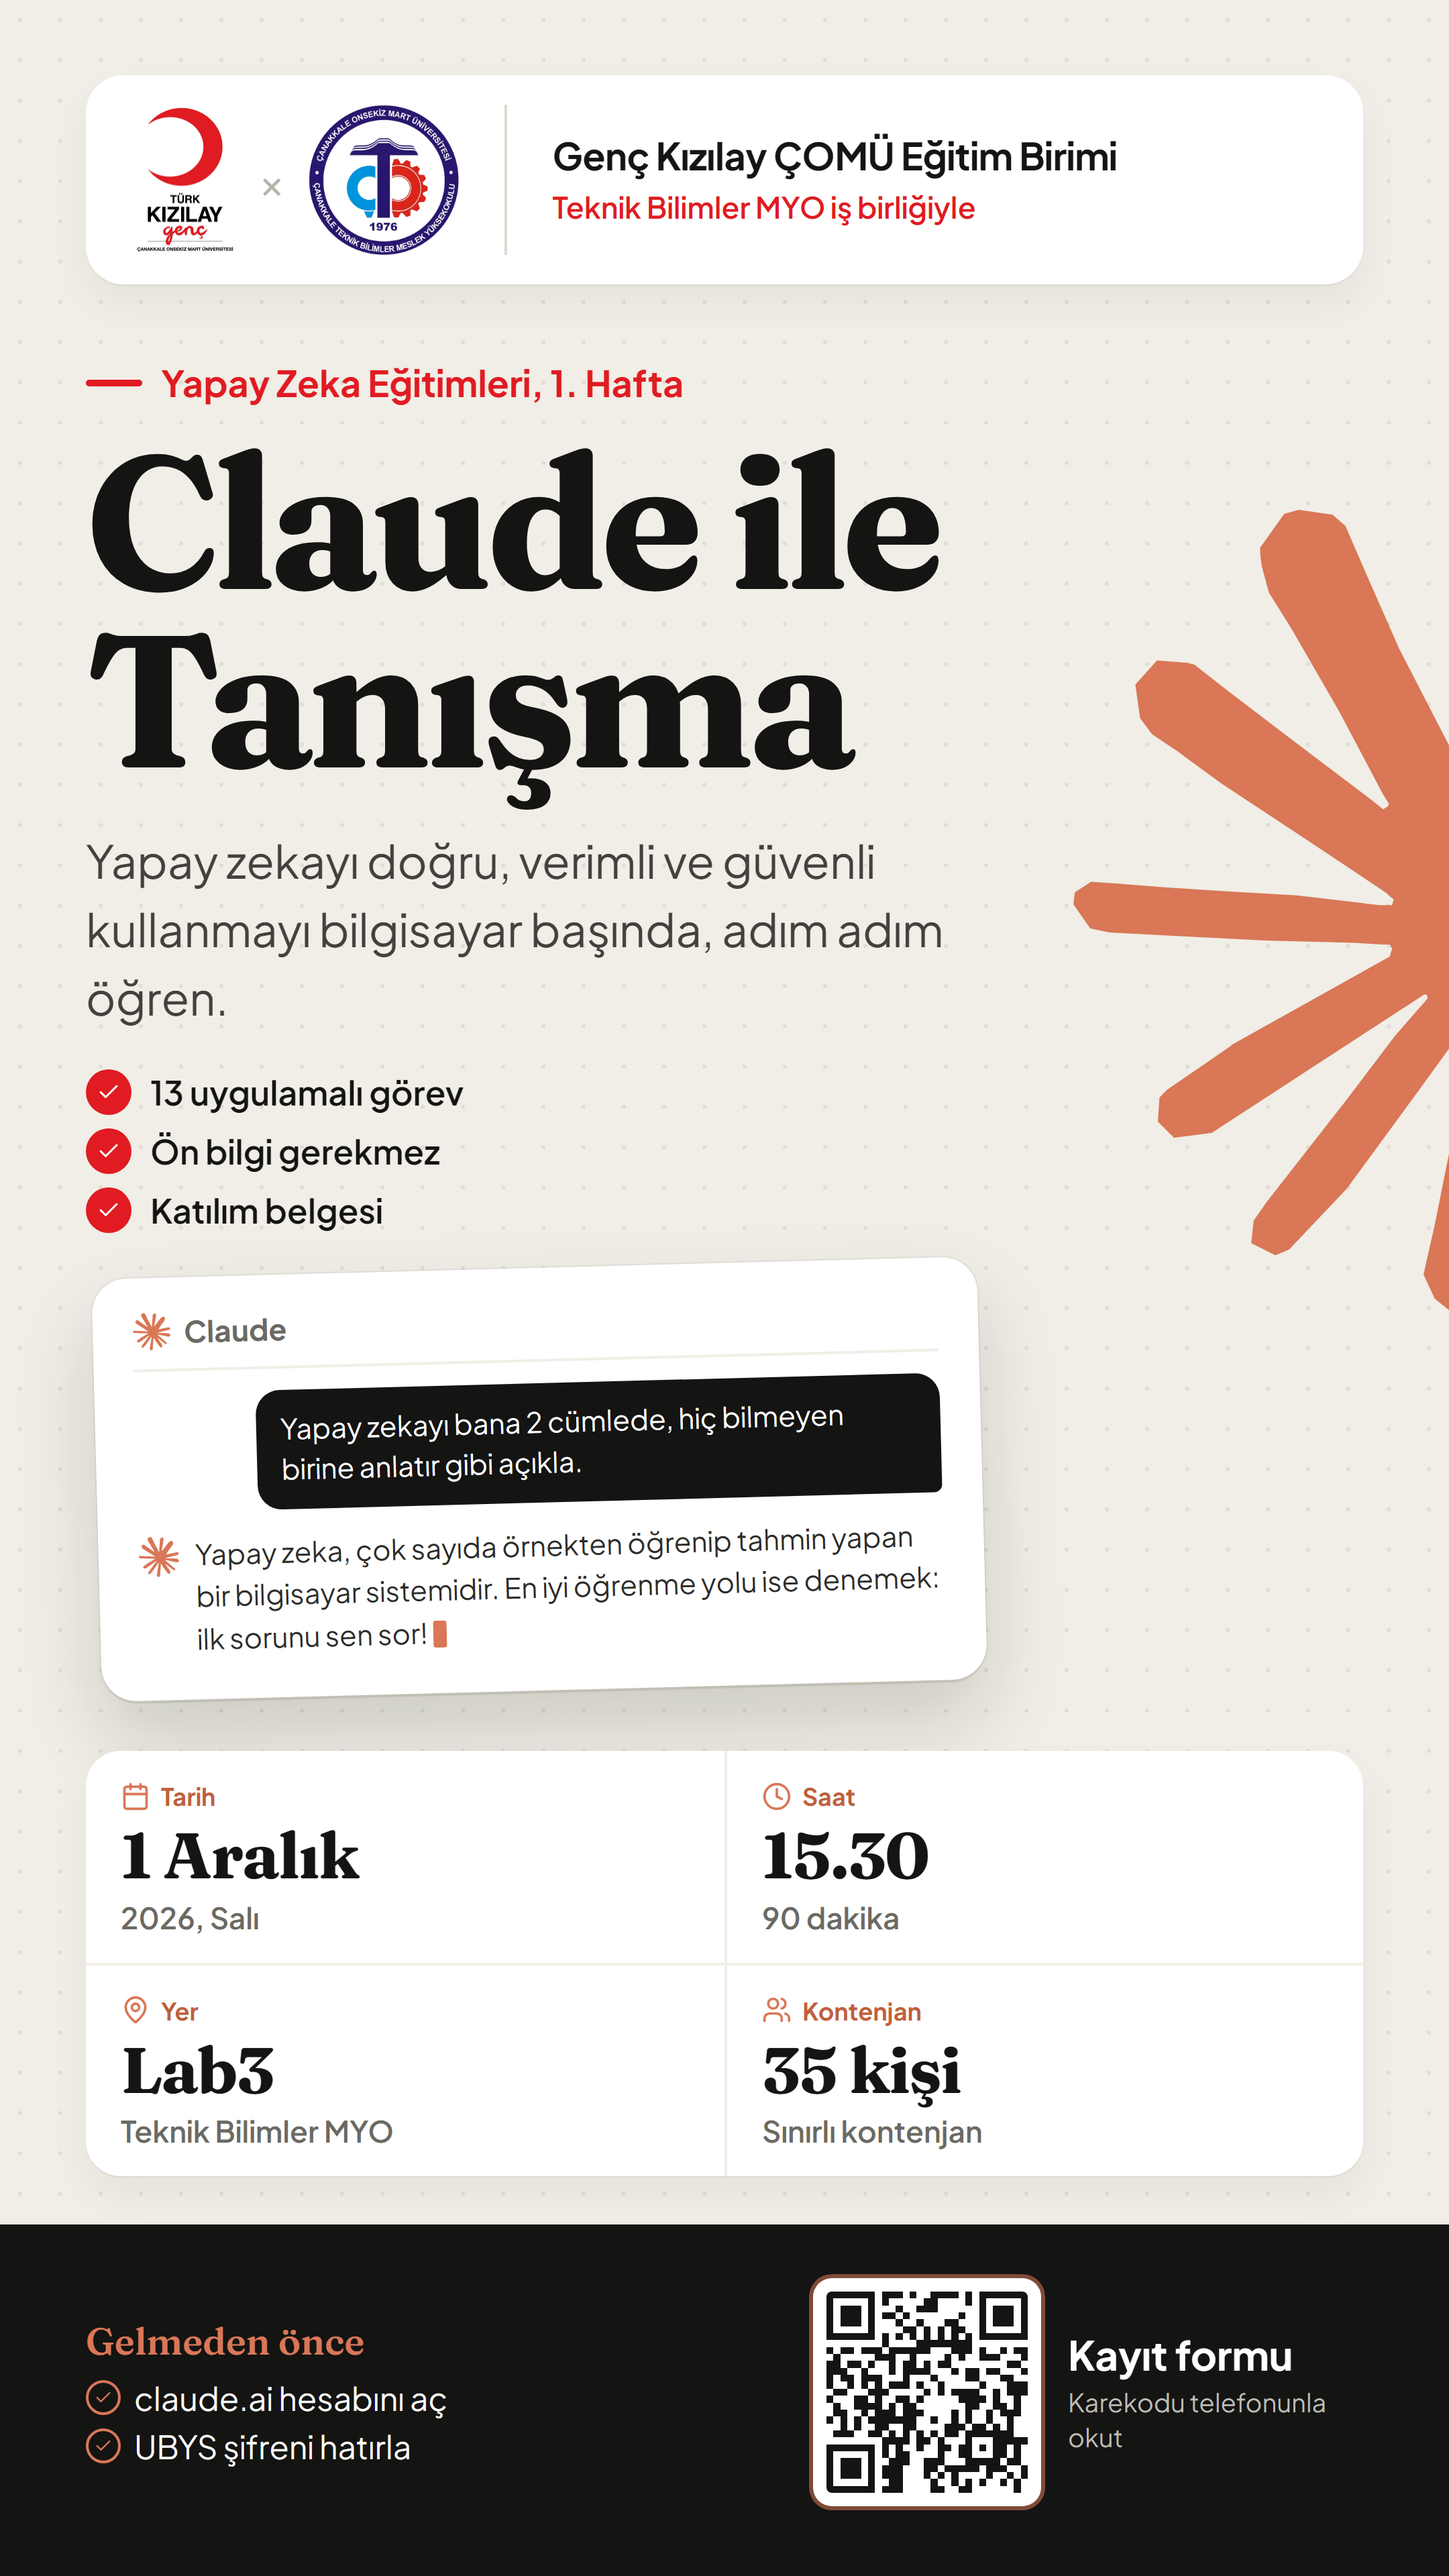
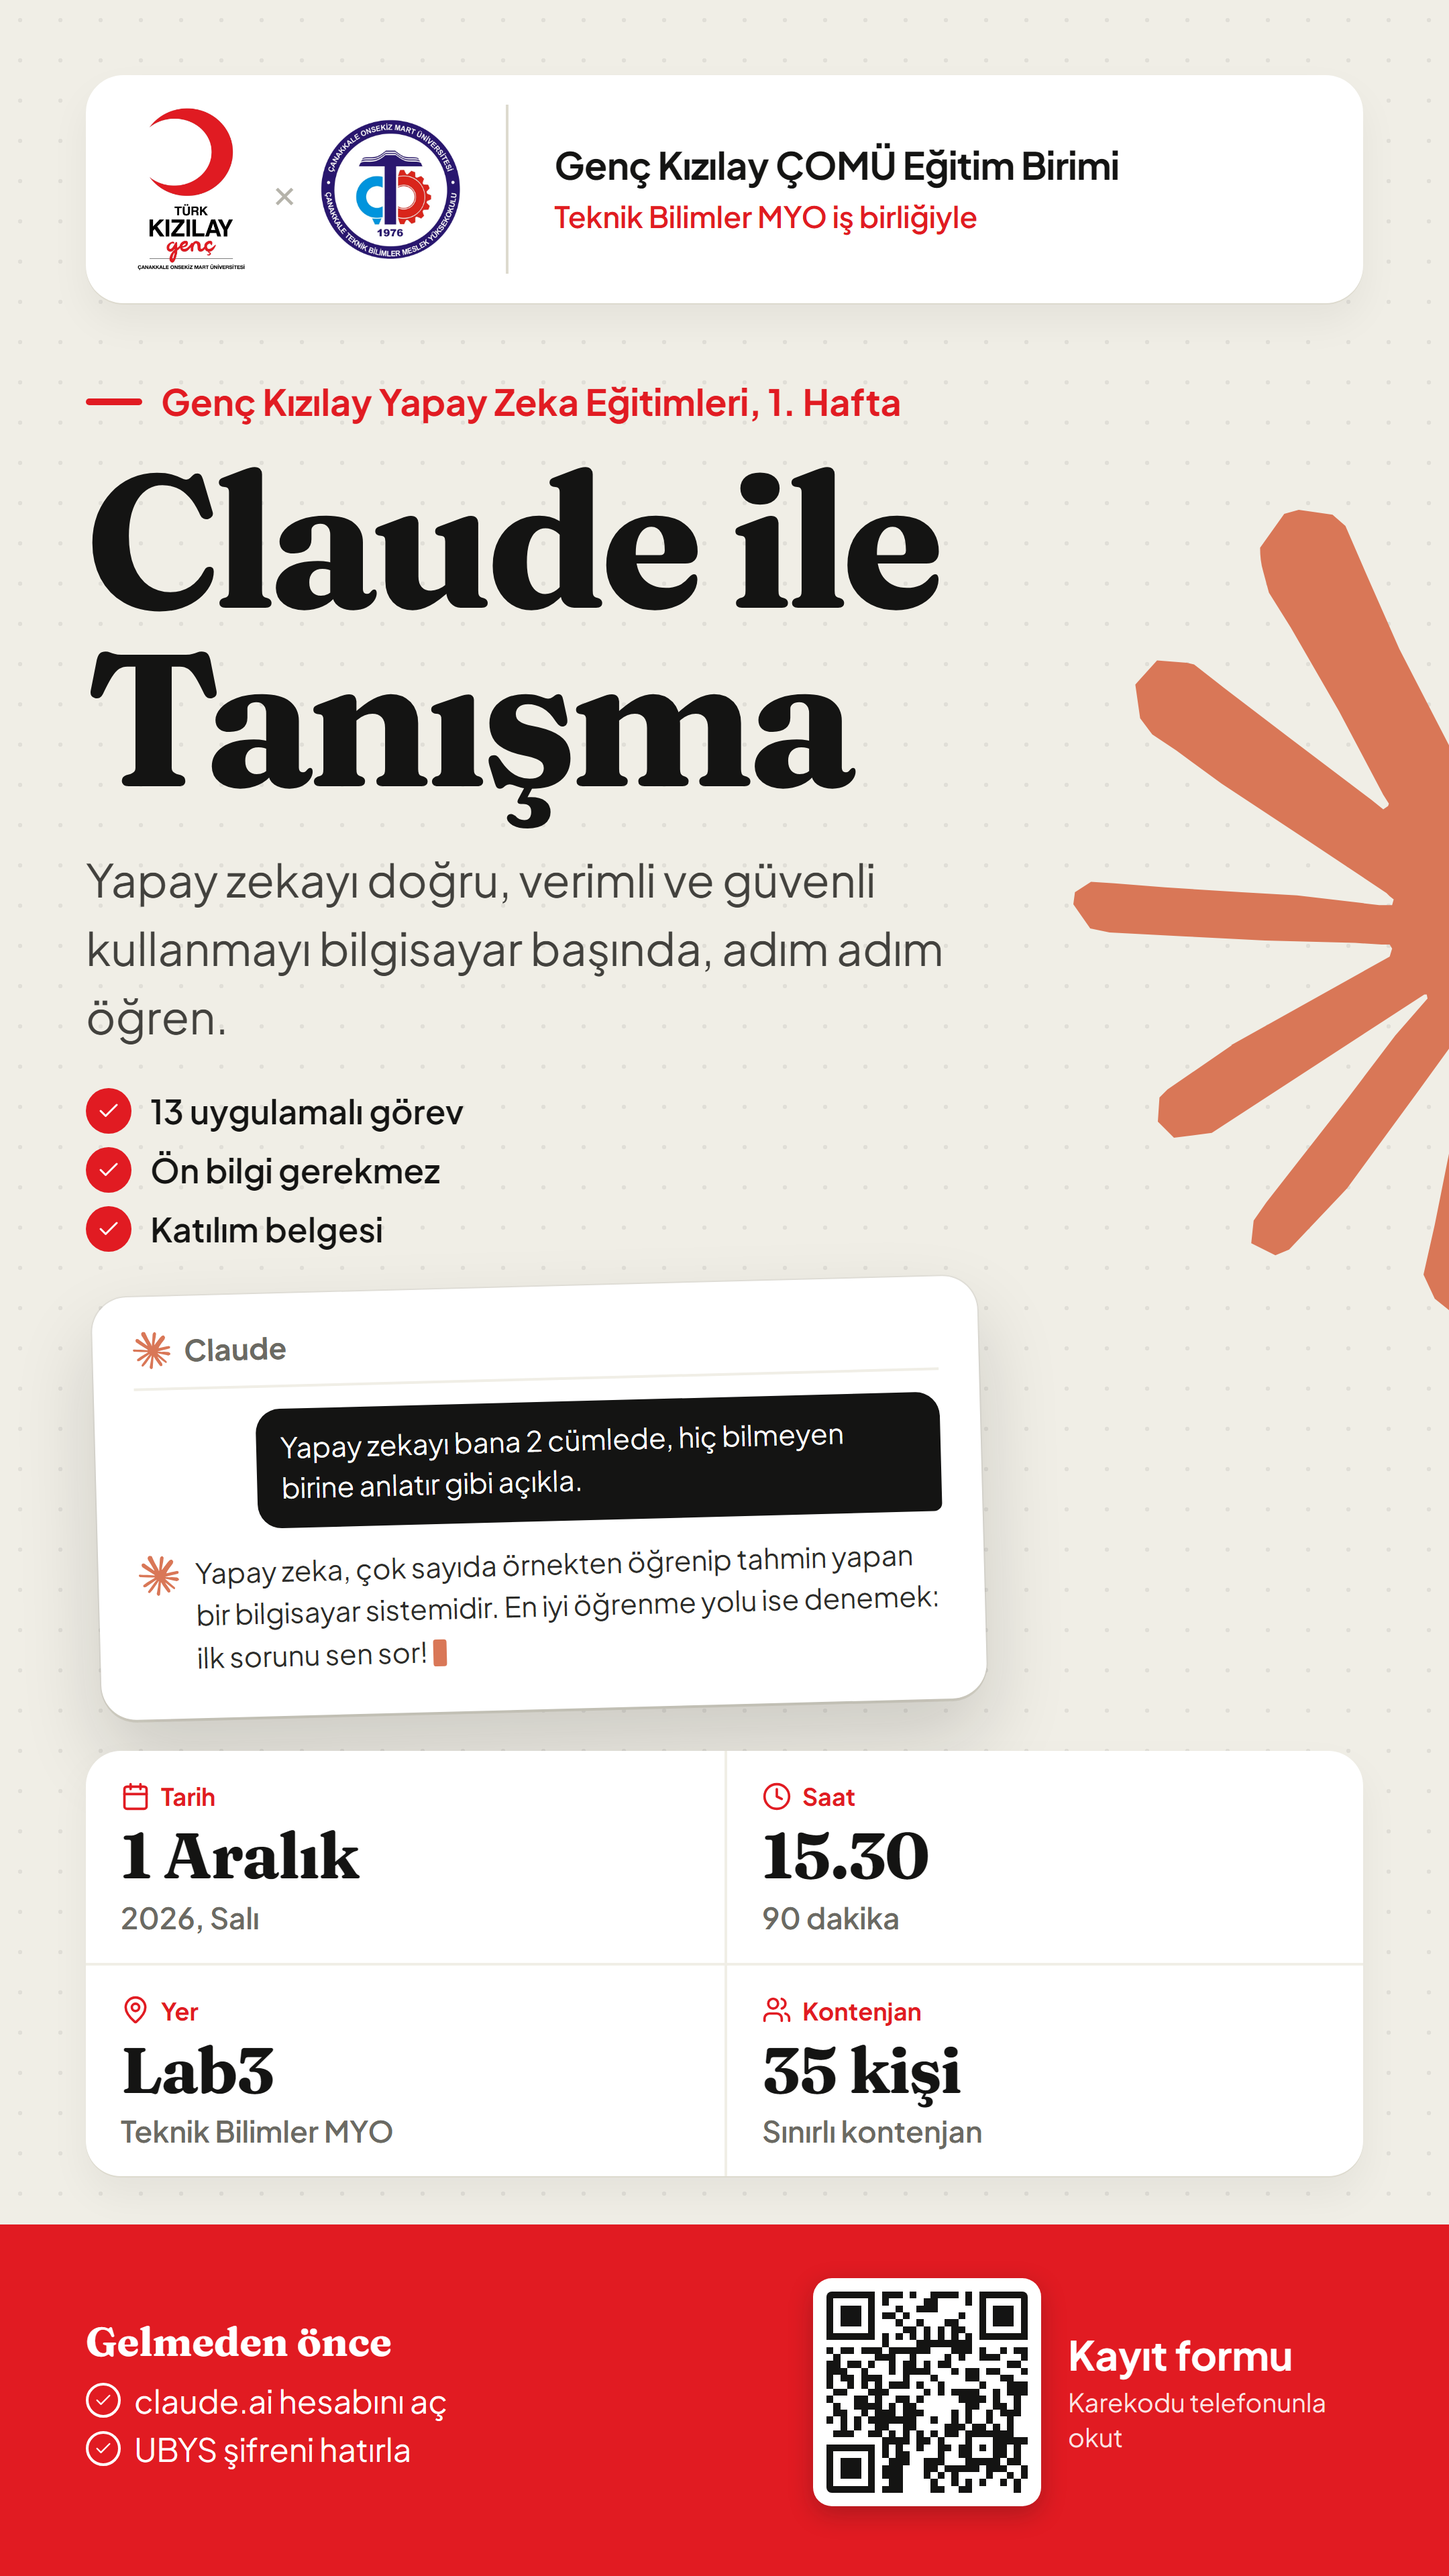
Afiş: Kızılay kimliği öne çıkarıldı
Alt bant Kızılay kırmızısı, bilgi panosu vurguları kırmızı, üst satır
'Genç Kızılay Yapay Zeka Eğitimleri', Genç Kızılay logosu büyütüldü.
Claude turuncusu yalnızca yıldız ve sohbet kartında.

Changed region(s): [[0.062, 0.0312, 0.9306, 0.6875], [0.0, 0.8438, 1.0, 1.0]]

diff --git a/duyuru/afis/afis.html b/duyuru/afis/afis.html
@@ -33,7 +33,8 @@
     /* ---------- Logo şeridi ---------- */
     .logolar { position: relative; z-index: 3; display: flex; align-items: center; gap: 34px; background: #fff; border-radius: 28px; padding: 22px 36px; box-shadow: 0 1px 0 var(--cizgi), 0 14px 30px rgba(20, 20, 19, 0.05); }
     .ortak { display: flex; align-items: center; gap: 18px; flex: none; }
-    .ortak img { height: 112px; width: auto; display: block; }
+    .ortak img { height: 104px; width: auto; display: block; }
+    .ortak img:first-child { height: 126px; }
     .ortak .carpi { font-size: 30px; font-weight: 400; color: #B5B3AA; line-height: 1; }
     .logolar .kimlik { flex: 1; align-self: stretch; display: flex; flex-direction: column; justify-content: center; gap: 8px; border-left: 2px solid var(--cizgi); padding-left: 34px; }
     .logolar .kimlik strong { font-size: 28px; font-weight: 700; line-height: 1.2; letter-spacing: -0.01em; }
@@ -70,22 +71,22 @@
     .pano { position: relative; z-index: 2; margin-top: auto; margin-bottom: 36px; display: grid; grid-template-columns: 1.15fr 0.9fr 1fr 0.95fr; background: #fff; border-radius: 26px; box-shadow: 0 1px 0 var(--cizgi), 0 14px 30px rgba(20, 20, 19, 0.05); }
     .pano div { padding: 26px 24px 24px; border-left: 2px solid #F0EEE6; }
     .pano div:first-child { border-left: 0; }
-    .pano small { display: flex; align-items: center; gap: 8px; font-size: 18px; font-weight: 700; color: var(--turuncu-koyu); margin-bottom: 8px; }
-    .pano small i { width: 22px; height: 22px; background: var(--turuncu); -webkit-mask: var(--i) center / contain no-repeat; mask: var(--i) center / contain no-repeat; }
+    .pano small { display: flex; align-items: center; gap: 8px; font-size: 18px; font-weight: 700; color: var(--kizilay); margin-bottom: 8px; }
+    .pano small i { width: 22px; height: 22px; background: var(--kizilay); -webkit-mask: var(--i) center / contain no-repeat; mask: var(--i) center / contain no-repeat; }
     .pano b { display: block; font-family: var(--baslik); font-size: 44px; font-weight: 700; line-height: 1.05; letter-spacing: -0.02em; font-variant-numeric: lining-nums tabular-nums; }
     .pano span { display: block; font-size: 19px; color: var(--gri); margin-top: 6px; font-weight: 600; }
 
     /* ---------- Alt bant ---------- */
-    .bant { position: relative; z-index: 2; margin: 0 -64px; background: var(--koyu); color: var(--krem-acik); padding: 30px 64px 36px; display: flex; align-items: center; justify-content: space-between; gap: 30px; }
-    .bant h2 { font-family: var(--baslik); font-weight: 600; font-size: 28px; color: var(--turuncu); margin-bottom: 10px; }
+    .bant { position: relative; z-index: 2; margin: 0 -64px; background: var(--kizilay); color: #fff; padding: 30px 64px 36px; display: flex; align-items: center; justify-content: space-between; gap: 30px; }
+    .bant h2 { font-family: var(--baslik); font-weight: 700; font-size: 30px; color: #fff; margin-bottom: 10px; }
     .bant ul { list-style: none; display: flex; flex-direction: column; gap: 6px; }
     .bant li { display: flex; align-items: center; gap: 10px; font-size: 24px; }
-    .bant li i { width: 26px; height: 26px; border-radius: 50%; border: 2px solid var(--turuncu); position: relative; flex: none; }
-    .bant li i::after { content: ""; position: absolute; inset: 4px; background: var(--turuncu); -webkit-mask: url(../../ortak/ikonlar/check.svg) center / contain no-repeat; mask: url(../../ortak/ikonlar/check.svg) center / contain no-repeat; }
+    .bant li i { width: 26px; height: 26px; border-radius: 50%; border: 2px solid #fff; position: relative; flex: none; }
+    .bant li i::after { content: ""; position: absolute; inset: 4px; background: #fff; -webkit-mask: url(../../ortak/ikonlar/check.svg) center / contain no-repeat; mask: url(../../ortak/ikonlar/check.svg) center / contain no-repeat; }
     .kayit { flex: none; display: flex; align-items: center; gap: 20px; }
-    .kayit .karekod { width: 132px; height: 132px; background: #fff; padding: 10px; border-radius: 14px; flex: none; box-shadow: 0 0 0 3px rgba(217, 119, 87, 0.55); }
+    .kayit .karekod { width: 132px; height: 132px; background: #fff; padding: 10px; border-radius: 14px; flex: none; box-shadow: 0 6px 18px rgba(20, 20, 19, 0.25); }
     .kayit b { display: block; font-size: 30px; font-weight: 700; color: #fff; }
-    .kayit span { display: block; font-size: 18px; color: #BDBBB3; max-width: 230px; line-height: 1.35; margin-top: 4px; }
+    .kayit span { display: block; font-size: 18px; color: rgba(255, 255, 255, 0.88); max-width: 230px; line-height: 1.35; margin-top: 4px; }
 
     /* ---------- Hikâye (9:16) ---------- */
     body.hikaye .kahraman { margin-top: 56px; }
@@ -123,7 +124,7 @@
     </header>
 
     <section class="kahraman">
-      <p class="ust">Yapay Zeka Eğitimleri, 1. Hafta</p>
+      <p class="ust">Genç Kızılay Yapay Zeka Eğitimleri, 1. Hafta</p>
       <h1>Claude ile<br>Tanışma</h1>
       <p class="alt">Yapay zekayı doğru, verimli ve güvenli kullanmayı bilgisayar başında, adım adım öğren.</p>
       <ul class="ozellik">
